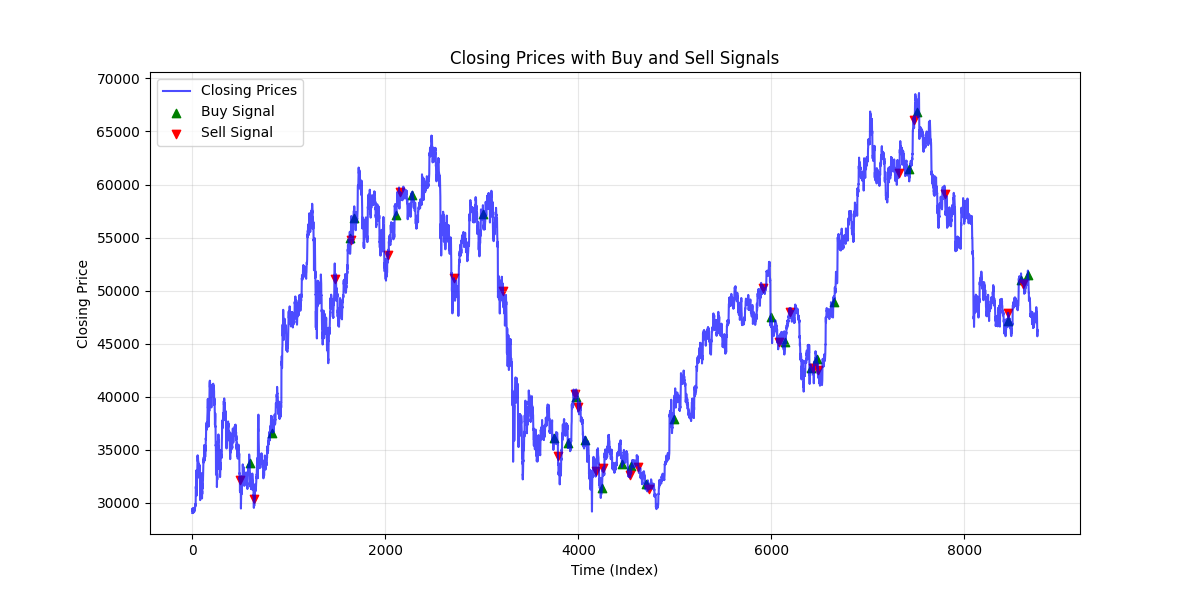
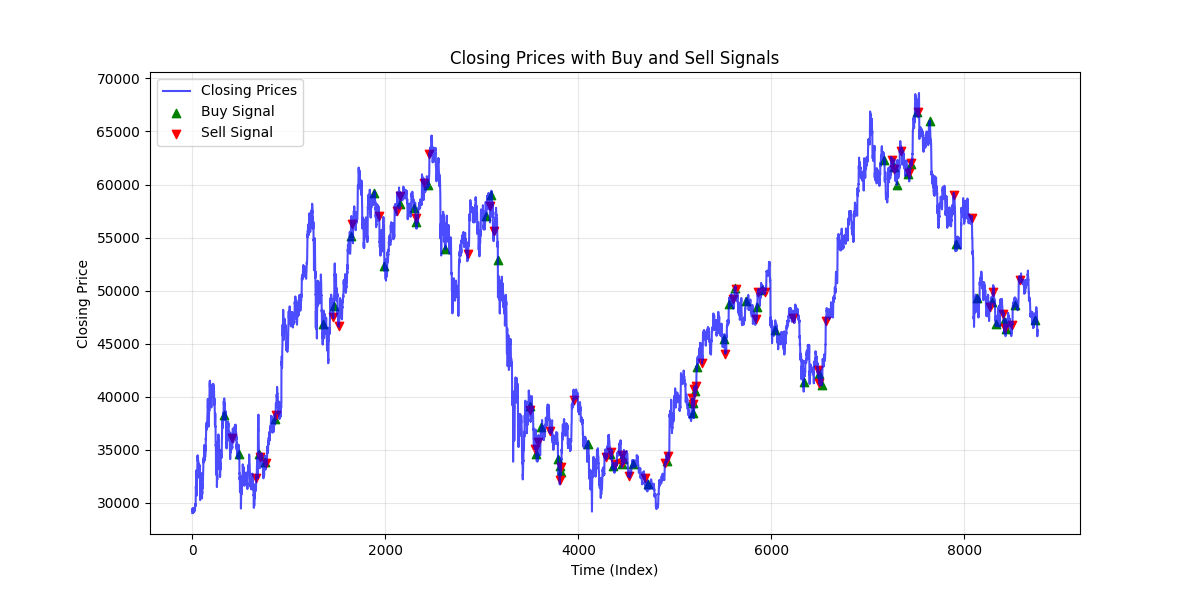
updated correct logic for gwo bot

diff --git a/bots/gwo_bot.py b/bots/gwo_bot.py
@@ -19,66 +19,68 @@ class gwo_bot(bot):
       7. rebuy_delay    : Minimum bars between successive buys
     """
     def __init__(self):
-        self.hyperparams = []
-        # Define bounds for each hyperparameter
+        super().__init__()
+        # default hyperparameter values
+        self.hyperparams = [10, 20, 50, 0.01, 14, 0.02, 5]
+        # bounds for each hyperparameter (must match order in hyperparams)
         self.bounds = [
             list(range(5, 51)),            # N_short: 5–50
             list(range(10, 101)),          # N_med  : 10–100
             list(range(20, 201)),          # N_long : 20–200
-            [i/1000 for i in range(0, 51)], # threshold: 0.000–0.050
-            list(range(1, 21)),            # momentum_period: 1–20
-            [i/1000 for i in range(0, 101)],# momentum_th: 0.000–0.100
-            list(range(1, 11)),            # rebuy_delay: 1–10 bars
+            [i/100 for i in range(0, 51)], # threshold: 0.00–0.50
+            list(range(1, 51)),            # momentum_period: 1–50
+            [i/100 for i in range(0, 51)], # momentum_th: 0.00–0.50
+            list(range(1, 51)),            # rebuy_delay: 1–50
         ]
 
     def generate_signals(self, data):
         prices = data['close'].values
-        # Unpack and cast hyperparameters
         Ns, Nm, Nl, thr, mom_p, mom_th, delay = self.hyperparams
-        Ns, Nm, Nl = map(lambda x: int(round(x)), (Ns, Nm, Nl))
+        Ns, Nm, Nl = map(int, (round(Ns), round(Nm), round(Nl)))
+        mom_p, delay = map(int, (round(mom_p), round(delay)))
         thr, mom_th = float(thr), float(mom_th)
-        mom_p, delay = map(lambda x: int(round(x)), (mom_p, delay))
 
-        # Ensure window ordering Ns < Nm < Nl
-        if not (Ns < Nm < Nl):
-            Nm = max(Ns + 1, min(Nm, Nl - 1))
-
-        # Compute SMAs via convolution
+        # --- indicators ------------------------------------------------------
         sma_short = wma(prices, Ns, sma_filter(Ns))
         sma_med   = wma(prices, Nm, sma_filter(Nm))
         sma_long  = wma(prices, Nl, sma_filter(Nl))
+        # ---------------------------------------------------------------------
 
-        signals = np.zeros(len(prices), dtype=int)
-        last_buy = -np.inf
+        signals      = np.zeros(len(prices), dtype=int)
+        last_trade   = -np.inf        # index of last BUY *or* SELL
+        in_position  = False          # False = holding cash, True = holding asset
 
         for i in range(1, len(prices)):
-            # Skip until indicators are valid
-            if i < max(Nl, mom_p):
+            if i < max(Nl, mom_p):          # not enough history yet
                 continue
 
-            # Compute relative differences between SMAs
-            rel_sm = (sma_short[i] - sma_med[i]) / sma_med[i]
-            rel_ml = (sma_med[i]   - sma_long[i]) / sma_long[i]
+            rel_sm = (sma_short[i]-sma_med[i])  / sma_med[i]
+            rel_ml = (sma_med[i]  -sma_long[i]) / sma_long[i]
+            momentum = (prices[i]-prices[i-mom_p]) / prices[i-mom_p]
+            enough_time = (i - last_trade) >= delay
 
-            # Compute momentum
-            momentum = (prices[i] - prices[i - mom_p]) / prices[i - mom_p]
-
-            # Buy condition: triple crossover + positive momentum + rebuy delay
-            can_buy = (i - last_buy) >= delay
-            if rel_sm > thr and rel_ml > thr and momentum > mom_th and can_buy:
+            # ------ BUY ------------------------------------------------------
+            if (not in_position and enough_time and
+                rel_sm > thr and rel_ml > thr and momentum > mom_th):
                 signals[i] = 1
-                last_buy = i
+                in_position = True
+                last_trade = i
 
-            # Sell condition: reverse crossover + negative momentum
-            elif rel_sm < -thr and rel_ml < -thr and momentum < -mom_th:
+            # ------ SELL -----------------------------------------------------
+            elif (in_position and enough_time and
+                  rel_sm < -thr and rel_ml < -thr and momentum < -mom_th):
                 signals[i] = -1
+                in_position = False
+                last_trade = i
 
         return signals
 
+# === Execution Block ===
 gwo_bot_instance = gwo_bot()
 training_data = read_csv(TRAINING_DATASET_PATH, start_date="2015-01-01", end_date="2019-12-31")
 best_value = gwo_optimiser(gwo_bot_instance, training_data,
                            num_wolves=30,   # pack size
                            max_iter=100)    # iterations
+
 print("Best fitness:", best_value)
 print("Best hyperparameters:", gwo_bot_instance.hyperparams)
